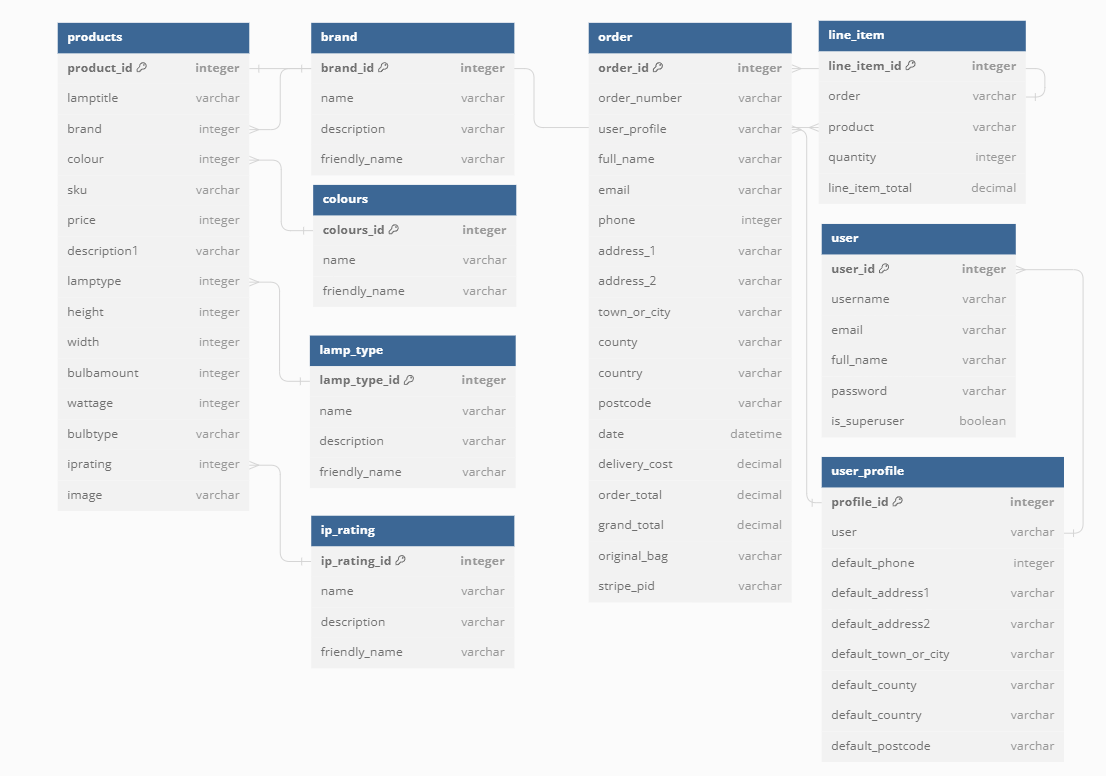
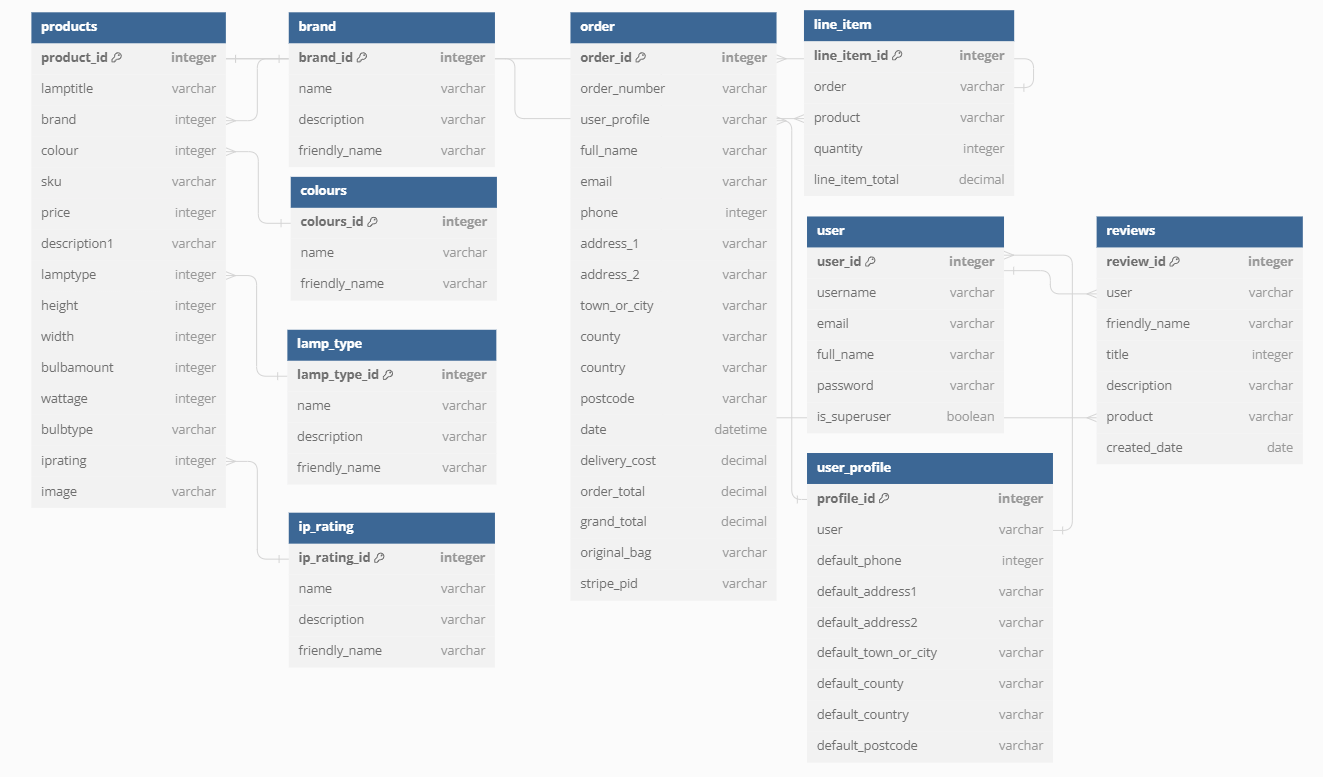
add: custom review app to readme

diff --git a/README.md b/README.md
@@ -21,6 +21,7 @@ As a buyer, I want to:
 - view details of each individual each lamp
 - search for certain charateristics for lamp I desire
 - create my own account to keep track of my purchases
+- review products I like or dislike
 
 ### Site Owner Goals:
 
@@ -28,6 +29,7 @@ As a buyer, I want to:
 - allow users to create an account to store their details and purchases
 - be able to list available products
 - ensure quality listings - through management of products
+- manage reviews - keep them clean and maintain brand image
 
 ### User Requirements and Expectations
 * A simple and intuitive navigation system
@@ -65,9 +67,13 @@ As a buyer, I want to:
 | 19 | Site Visitor | View confirmation of a successful order   | Confirm I ordered correctly                                         |
 | 20 | Site Visitor | Receive a confirmation email              | Confirm I ordered correctly and keep a record of them               |
 | Profile / Product Management |   |   |   |
-| 21 | Site Visitor | Add a product                             | Add new products as they come in                                    |
-| 22 | Site Visitor | Edit a product                            | Update/change product details                                       |
-| 23 | Site Visitor | Delete a product                          | Remove products that are no longer available                        |
+| 21 | Site Owner   | Add a product                             | Add new products as they come in                                    |
+| 22 | Site Owner   | Edit a product                            | Update/change product details                                       |
+| 23 | Site Owner   | Delete a product                          | Remove products that are no longer available                        |
+| Review |   |   |   |
+| 24 | Site Visitor | Add a review                              | Give feedback on my purchases                                       |
+| 25 | Site Owner   | Edit a reveiw                             | Keep reviews suitable for the audience                              |
+| 26 | Site Owner   | Delete a review                           | Remove offensive reviews                                            |
 
 # Design
 
@@ -146,6 +152,10 @@ Once the checkout is submitted, users are redirected to a success page which con
 ## Profile
 
 Crispy forms are once again used here for a clean design. Users can view and update their details including phone, email, address and ensure they are kept for future use.
+
+## Reviews
+
+Reviews were added as a custom model, whereby a user can add a review to a product. A superuse can edit or delete the review if needs be.
 
 ## Other
 
